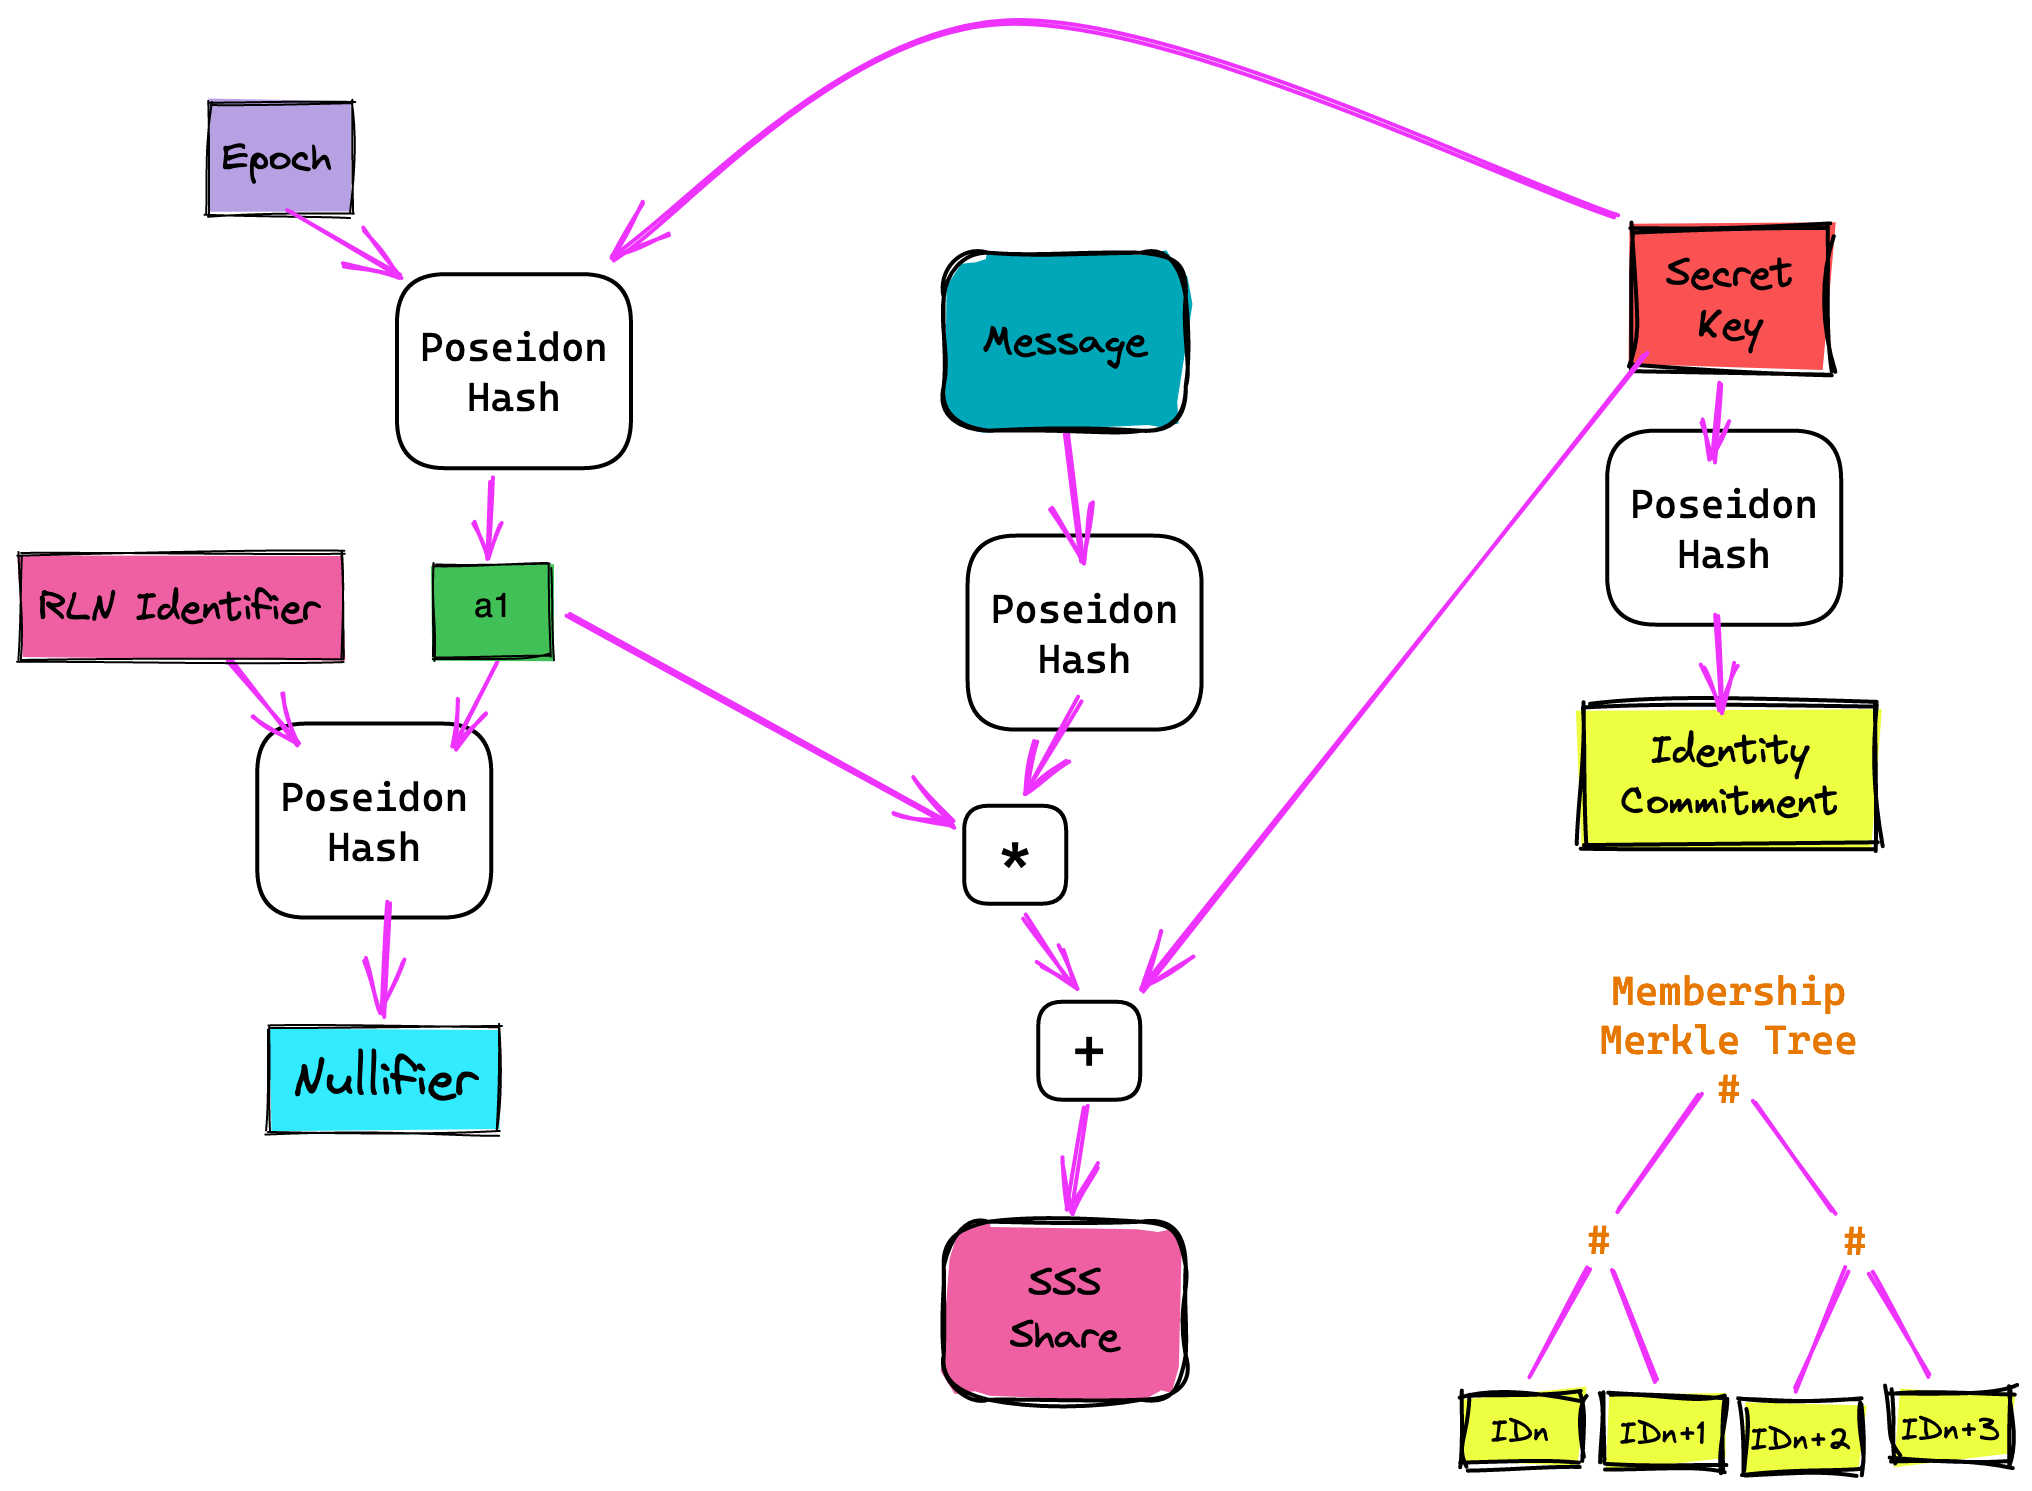
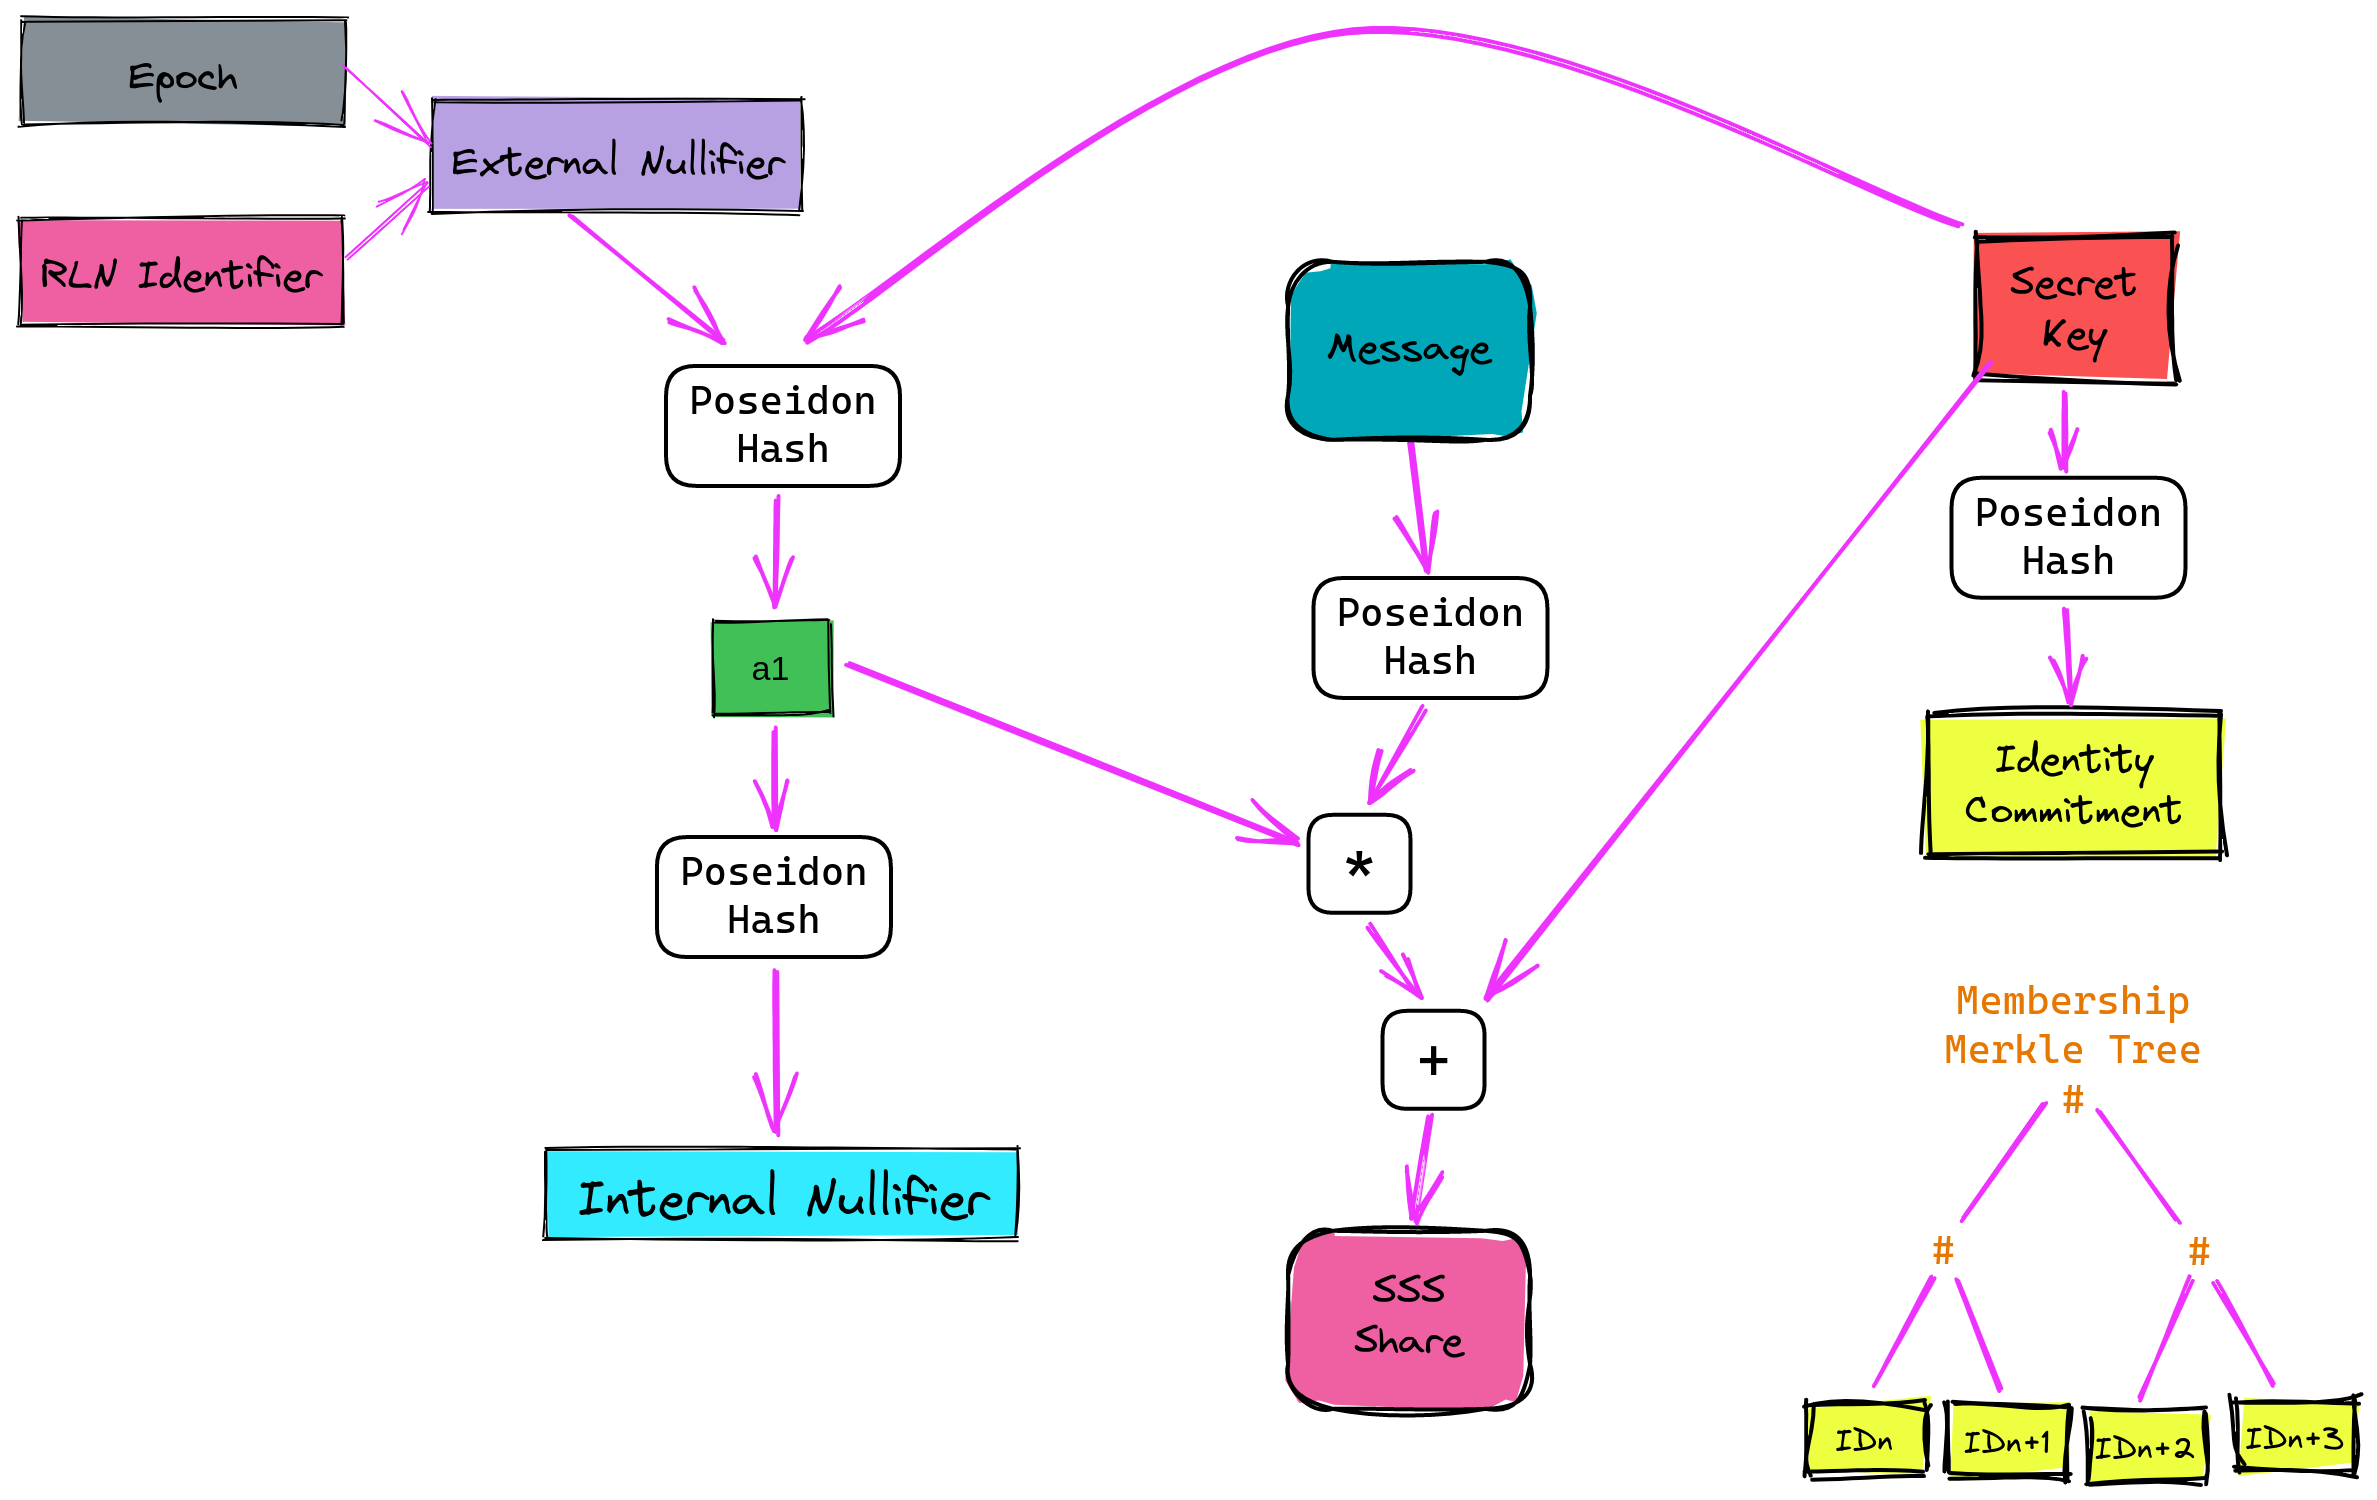
chore: update docs and diagram with respect to new circuits

diff --git a/src/protocol_spec.md b/src/protocol_spec.md
@@ -26,9 +26,8 @@ So, each member generates a secret key, denoted by \\(a_0\\). Identity commitmen
 
 The slight difference is that we must enable a *secret sharing* scheme (to split the `commitment` into parts). We need to come up with a polynomial. For simplicity we use linear polynomial (e.g. \\(f(x) = kx + b\\). Therefore, with two points, we can reconstruct the polynomial and recover the secret. 
 
-Our polynomial will be: \\(A(x) = a_1 * x + a_0\\), where \\(a_1 = Poseidon(a_0, epoch)\\).
-
-`epoch` is a simple identifier (also called *external nullifier*). And each epoch, there is a polynomial with new \\(a_1\\) and the same \\(a_0\\). 
+Our polynomial will be: \\(A(x) = a_1 * x + a_0\\), where \\(a_1 = Poseidon(a_0, external\\_nullifier)\\).
+The meaning of \\(external\\_nullifier\\) is described below.
 
 ## Signalling
 Now that the user is registered, he wants to interact with the system. Imagine that the system is an *anonymous chat* and the interaction is the sending of messages. 
@@ -42,12 +41,16 @@ Of course, we somehow must prove that our *share* = \\((x, y)\\) is valid (that 
 ## Slashing
 As it's been said, if a user sends more than one message, everyone else will be able to recover his secret, slash them and take their stake.
 
+## Nullifiers
+There are also \\(internal\\_nullifier\\) and \\(external\\_nullifier\\), which can be found in the **RLN** protocol/circuits.
+
+\\(external\\_nullifier = Poseidon(epoch, rln\\_identifier)\\), where \\(rln\\_identifier\\) is a random finite field value, unique per RLN app.
+
+The \\(external\\_nullifier\\) is required so that the user can securely use the same private key \\(a_0\\) across different **RLN** apps - in different applications (and in different eras) with the same secret key, the user will have different values of the coefficient \\(a_1\\).
+
+Now, imagine there are a lot of users sending messages, and after each received message, we need to check if any member can be slashed. To do this, we can use all combinations of received *shares* and try to recover the polynomial, but this is a naive and non-optimal approach. Suppose we have a mechanism that will tell us about the connection between a person and their messages while not revealing their identity. In that case, we can solve this without brute-forcing all possibilities by using a public \\(internal\\_nullifier = Poseidon(a_1)\\), so if a user sends more than one message, it will be immediately visible to everyone.
+
 ## Some important notes
-There are also `nullifier` and `rln-identifier`, which can be found in the **RLN** protocol/circuits.
-
-So, `rln-identifier` is just a random value that's unique per **RLN** app. It's used for additional cross-application security - to protect the user secrets from being compromised if they use the same credentials across different **RLN** apps. If `rln-identifier` is not present, the user uses the same credentials and sends a message in two different **RLN** apps using the same epoch, then their secret key can be revealed. Adding the `rln-identifier` field, we obscure the nullifier, so this kind of attack cannot happen. The only kind of attack that is possible is if we have an entity with a global view of all messages, and they try to brute-force different combinations of x and y shares for different nullifiers.
-
-Now, imagine there are a lot of users sending messages, and after each received message, we need to check if any member can be slashed. To do this, we can use all combinations of received *shares* and try to recover the polynomial, but this is a naive and non-optimal approach. Suppose we have a mechanism that will tell us about the connection between a person and their messages while not revealing their identity. In that case, we can solve this without brute-forcing all possibilities by using a public `nullifier` (\\(Poseidon(a_1, rln-identifier)\\)), so if a user sends more than one message, it will be immediately visible to everyone.
 
 Also, in our example (and [zk-chat](https://github.com/njofce/zk-chat) implementation), we use linear polynomial, but [SSS](sss.md) allows us to use various degree polynomials; therefore we can implement a protocol, where more than one signal (message) can be sent in per epoch. 
 

diff --git a/src/circuits.md b/src/circuits.md
@@ -97,33 +97,44 @@ template CalculateIdentityCommitment() {
     out <== hasher.out;
 }
 
+template CalculateExternalNullifier() {
+    signal input epoch;
+    signal input rln_identifier;
+
+    signal output out;
+
+    component hasher = Poseidon(2);
+    hasher.inputs[0] <== epoch;
+    hasher.inputs[1] <== rln_identifier;
+
+    out <== hasher.out;
+}
+
 template CalculateA1() {
     signal input a_0;
-    signal input epoch;
+    signal input external_nullifier;
 
     signal output out;
 
     component hasher = Poseidon(2);
     hasher.inputs[0] <== a_0;
-    hasher.inputs[1] <== epoch;
+    hasher.inputs[1] <== external_nullifier;
 
     out <== hasher.out;
 }
 
-template CalculateNullifier() {
+template CalculateInternalNullifier() {
     signal input a_1;
-    signal input rln_identifier;
     signal output out;
 
-    component hasher = Poseidon(2);
+    component hasher = Poseidon(1);
     hasher.inputs[0] <== a_1;
-    hasher.inputs[1] <== rln_identifier;
 
     out <== hasher.out;
 }
 ```
 
-It's easy to understand these samples: `CalculateIdentityCommitment()` is used to calculate the identity commitment. It takes secret and outputs the commitment. `CalculateA1()` and `CalculateNullifier()` are used to calculate `a_1` and `nullifier` (internal nullifier); they are implemented as it's described in [previous topic](./protocol_spec.md).
+It's easy to understand these samples: `CalculateIdentityCommitment()`, `CalculateA1()`, `CalculateInternalNullifier()`, `CalculateExternalNullifier()` - they do exactly what their name says; they are implemented as it's described in [previous topic](./protocol_spec.md).
 
 Now, let's look at the core logic of the **RLN** circuit. 
 ```swift
@@ -144,7 +155,7 @@ Now, let's look at the core logic of the **RLN** circuit.
 ...
 ```
 
-So, here we have many inputs. Private inputs are: `identity_secret` (basically `a_0` from the polynomial), `path_elements[][]`, `identity_path_index[]`. Public inputs are: `x` (actually just the hash of a signal), `epoch,` `rln_identifier.` Outputs are: `y' (share of the secret), `root` of a Merkle Tree, and `nullifier.`
+So, here we have many inputs. Private inputs are: `identity_secret` (basically `a_0` from the polynomial), `path_elements[][]`, `identity_path_index[]`. Public inputs are: `x` (actually just the hash of a signal), `epoch,` `rln_identifier`. Outputs are: `y` (polynomial share/secret share), `root` of a Merkle Tree, and `nullifier` (which is basically `internal_nullifier`).
 
 **RLN** circuit consists of two checks:
 * Membership in Merkle Tree
@@ -179,13 +190,17 @@ root <== inclusionProof.root;
 ```
 
 ### Correctness of secret share
-As we use linear polynomial we need to check that `y = a_1 * x + a_0` (`a_0` is identity secret). For that, we need these constraints:
+As we use linear polynomial we need to check that `y = a_1 * x + a_0` (`a_0` is identity secret). For that, we need to calculate `external_nullifier` and constraints on `a_1` and secret share:
 ```swift
 ...
 
+    component external_nullifier = CalculateExternalNullifier();
+    external_nullifier.epoch <== epoch;
+    external_nullifier.rln_identifier <== rln_identifier;
+
     component a_1 = CalculateA1();
     a_1.a_0 <== identity_secret;
-    a_1.epoch <== epoch;
+    a_1.external_nullifier <== external_nullifier.out;
 
     y <== identity_secret + a_1.out * x;
 
@@ -196,9 +211,8 @@ To calculate and reveal the `nullifier`:
 ```swift
 ...
 
-    component calculateNullifier = CalculateNullifier();
+    component calculateNullifier = CalculateInternalNullifier();
     calculateNullifier.a_1 <== a_1.out;
-    calculateNullifier.rln_identifier <== rln_identifier;
 
     nullifier <== calculateNullifier.out;
 
@@ -214,6 +228,6 @@ pragma circom 2.0.0;
 
 include "./rln-base.circom";
 
-component main {public [x, epoch, rln_identifier ]} = RLN(15);
+component main { public [x, epoch, rln_identifier] } = RLN(15);
 ```
 That's the whole **RLN** Circom Circuit :) Here we just need to list all public inputs (`x,` `epoch,` `rln_identifier`; the rest of the inputs are private). Also, we set the depth of the Merkle Tree = 15 (max of 32768 members).

diff --git a/src/what_is_rln.md b/src/what_is_rln.md
@@ -1,8 +1,5 @@
 # What is Rate-Limiting Nullifier?
 
-*This topic is a part of [complete overview](https://medium.com/privacy-scaling-explorations/rate-limiting-nullifier-a-spam-protection-mechanism-for-anonymous-environments-bbe4006a57d) by Blagoj*.
-
-___
 
 **RLN** is a zero-knowledge gadget that enables spam prevention for decentralized, anonymous environments.
 
